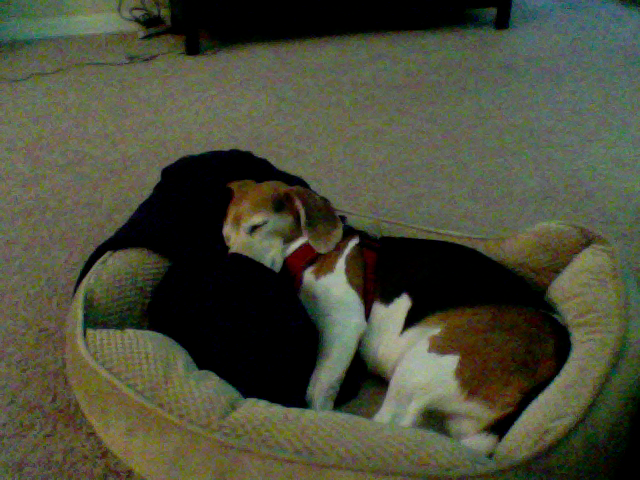
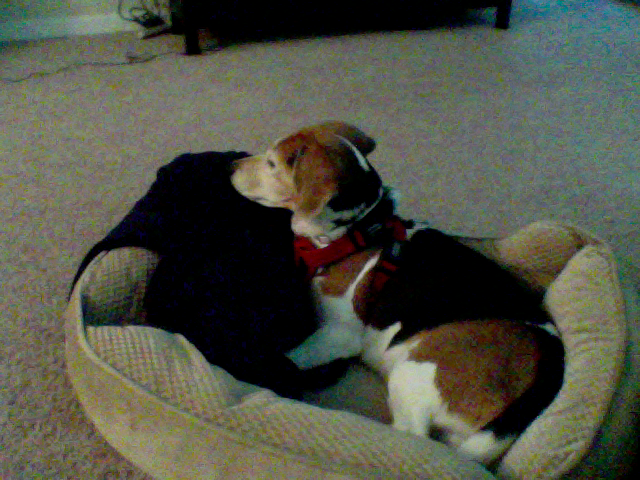
update at Month05Day12Time11:20

diff --git a/index.html b/index.html
@@ -39,8 +39,8 @@
       <!-- Example row of columns -->
       <div class="row">
         <div class="col-md-4">
-	<p>This picture was updated at Month05Day12Time11:19</p>
-		<img src="4_pic.png" />
+	<p>This picture was updated at Month05Day12Time11:20</p>
+		<img src="3_pic.png" />
         </div>
       </div>
 
